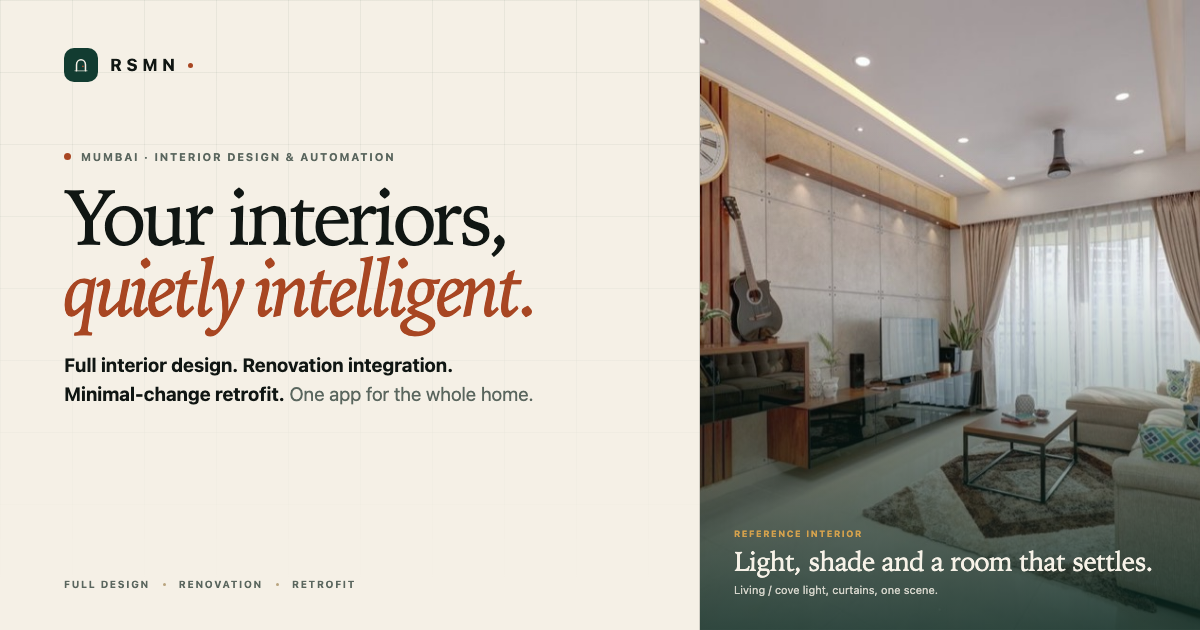
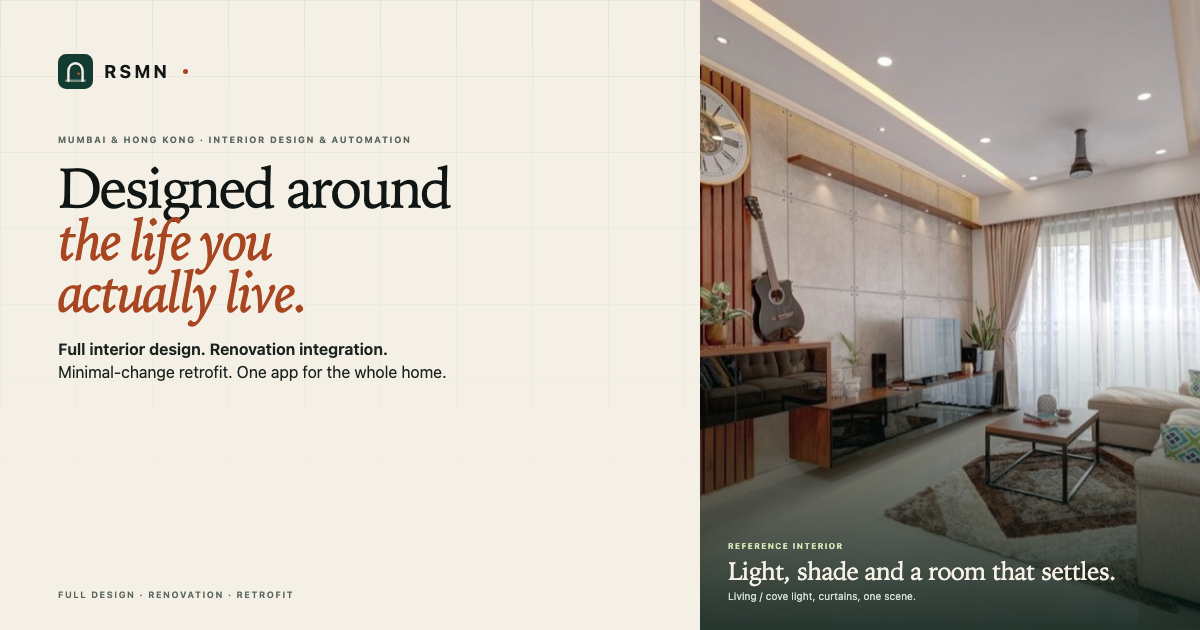
Lead with the life-first catchphrase

diff --git a/index.html b/index.html
@@ -3,29 +3,29 @@
 <head>
   <meta charset="utf-8" />
   <meta name="viewport" content="width=device-width, initial-scale=1" />
-  <title>RSMN — Interior design &amp; automation, Mumbai &amp; Hong Kong</title>
-  <meta name="description" content="RSMN is an interior design and automation studio working across Mumbai and Hong Kong. From a blank shell to a finished home — or a retrofit that barely touches a wall — we design lighting, climate, security, cinema and local AI as one system." />
+  <title>RSMN — Designed around the life you actually live | Mumbai &amp; Hong Kong</title>
+  <meta name="description" content="Designed around the life you actually live. RSMN is an interior design and automation studio working across Mumbai and Hong Kong. From a blank shell to a finished home — or a retrofit that barely touches a wall — we design lighting, climate, security, cinema and local AI as one system." />
   <meta name="theme-color" content="#f5f0e6" />
   <meta name="color-scheme" content="light" />
   <link rel="icon" href="assets/mark.svg" type="image/svg+xml" />
   <link rel="canonical" href="https://araa47.github.io/rsmn-site/" />
-  <link rel="stylesheet" href="styles.css?v=20261103o" />
+  <link rel="stylesheet" href="styles.css?v=20261103p" />
 
   <meta name="author" content="RSMN" />
   <meta property="og:type" content="website" />
   <meta property="og:url" content="https://araa47.github.io/rsmn-site/" />
   <meta property="og:site_name" content="RSMN" />
-  <meta property="og:title" content="RSMN — Interior design &amp; automation, Mumbai &amp; Hong Kong" />
-  <meta property="og:description" content="Full interior design, renovation integration or a minimal-change retrofit. One studio, one app, local-first." />
-  <meta property="og:image" content="https://araa47.github.io/rsmn-site/assets/og.png" />
+  <meta property="og:title" content="RSMN — Designed around the life you actually live | Mumbai &amp; Hong Kong" />
+  <meta property="og:description" content="Designed around the life you actually live. Full interior design, renovation integration or a minimal-change retrofit. One studio, one app, local-first." />
+  <meta property="og:image" content="https://araa47.github.io/rsmn-site/assets/og.png?v=2" />
   <meta property="og:image:width" content="1200" />
   <meta property="og:image:height" content="630" />
-  <meta property="og:image:alt" content="RSMN — Your interiors, quietly intelligent. Interior design and automation, Mumbai and Hong Kong." />
+  <meta property="og:image:alt" content="RSMN — Designed around the life you actually live. Interior design and automation, Mumbai and Hong Kong." />
   <meta property="og:locale" content="en_IN" />
   <meta name="twitter:card" content="summary_large_image" />
-  <meta name="twitter:title" content="RSMN — Interior design &amp; automation, Mumbai &amp; Hong Kong" />
-  <meta name="twitter:description" content="Full interior design, renovation integration or a minimal-change retrofit. One studio, one app, local-first." />
-  <meta name="twitter:image" content="https://araa47.github.io/rsmn-site/assets/og.png" />
+  <meta name="twitter:title" content="RSMN — Designed around the life you actually live | Mumbai &amp; Hong Kong" />
+  <meta name="twitter:description" content="Designed around the life you actually live. Full interior design, renovation integration or a minimal-change retrofit. One studio, one app, local-first." />
+  <meta name="twitter:image" content="https://araa47.github.io/rsmn-site/assets/og.png?v=2" />
 
   <script>
     document.documentElement.classList.add('js');
@@ -153,7 +153,7 @@
         <div class="hero__grid">
           <div class="hero__copy">
             <p class="eyebrow">Mumbai &amp; Hong Kong · Interior design &amp; automation</p>
-            <h1>Your interiors,<br /><em>quietly intelligent.</em></h1>
+            <h1>Designed around<br /><em>the life you<br />actually live.</em></h1>
             <p class="hero__sub">
               RSMN is an interior design and automation studio working across Mumbai and Hong
               Kong. From a blank shell to a finished home — or a retrofit that barely touches a wall — we

diff --git a/styles.css b/styles.css
@@ -466,8 +466,8 @@ ol {
 }
 .hero h1 {
   margin: 22px 0 0;
-  font-size: clamp(3.35rem, 6.9vw, 6rem);
-  line-height: 0.9;
+  font-size: clamp(2.4rem, 6.2vw, 4.9rem);
+  line-height: 0.95;
   letter-spacing: -0.048em;
 }
 .hero h1 em {
